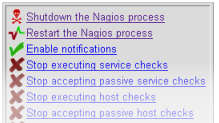
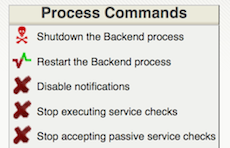
reviewed startstop and verifyconfig page

diff --git a/documentation/usersguide/startstop.md b/documentation/usersguide/startstop.md
@@ -3,62 +3,56 @@ layout: doctoc
 title: Starting and Stopping Naemon
 ---
 
-{% include review_required.md %}
-
 <span class="glyphicon glyphicon-arrow-right"></span> See Also: <a href="verifyconfig.html">Verifying Your Configuration</a>
+<br><br>
 
-There's more than one way to start, stop, and restart Naemon.  Here are some of the more common ones...
+There's more than one way to start, stop, and restart Naemon.
+Here are some of the more common ones...
 
-<span class="glyphicon glyphicon-thumbs-up"></span> Tip: Always make sure you <a href="verifyconfig.html">verify your configuration</a> before you (re)start Naemon.
+
+<div class="alert alert-info" style="margin: 10px;"><i class="glyphicon glyphicon-thumbs-up"></i>
+Tip: Always make sure you <a href="verifyconfig.html">verify your configuration</a> before you (re)start Naemon.
+</div>
+
+
 
 ### Starting Naemon
 
-<ol>
-<li><b>Init Script:</b>  The easiest way to start the Naemon daemon is by using the init script like so:
-<pre>
-/etc/rc.d/init.d/nagios start
-</pre>
-</li>
-<li><b>Manually:</b> You can start the Naemon daemon manually with the <b>-d</b> command line option like so:
-<pre>
-/usr/local/nagios/bin/nagios -d /usr/local/nagios/etc/nagios.cfg
-</pre>
-</li>
-</ol>
+1. <b>Init Script:</b>
+   The easiest way to start the Naemon daemon is by using the init script like so:
+   <pre>/etc/init.d/naemon start</pre>
+2. <b>Manually:</b>
+   You can start the Naemon daemon manually with the <b>-d</b> command line option like so:
+   <pre>/usr/bin/naemon -d /etc/naemon/naemon.cfg</pre>
+
+
 
 ### Restarting Naemon
 
 Restarting/reloading is nececessary when you modify your configuration files and want those changes to take effect.
 
-<ol>
-<li><b>Init Script:</b>  The easiest way to restart the Naemon daemon is by using the init script like so:
-<pre>
-/etc/rc.d/init.d/nagios reload
-</pre>
-</li>
-<li><b>Web Interface:</b> You can restart the Naemon through the web interface by clicking the "Process Info" navigation link and selecting "Restart the Naemon process":<br><br>
-<img src="/images/stoprestart.png" border="0" alt="Restart the Naemon process"><br><br>
-</li>
-<li><b>Manually:</b> You can restart the Naemon process by sending it a SIGHUP signal like so:
-<pre>
-kill -HUP &lt;nagios_pid&gt;
-</pre>
-</ol>
+1. <b>Init Script:</b>
+   The easiest way to restart the Naemon daemon is by using the init script like so:
+   <pre>/etc/init.d/naemon reload</pre>
+2. <b>Web Interface:</b>
+   You can restart the Naemon through the web interface by clicking the
+   "Process Info" navigation link and selecting "Restart the Backend process":<br><br>
+   <img src="/images/stoprestart.png" border="0" alt="Restart the Backend process"><br><br>
+3. <b>Manually:</b>
+   You can restart the Naemon process by sending it a SIGHUP signal like so:
+   <pre>kill -HUP &lt;naemon_pid&gt;</pre>
+
+
 
 ### Stopping Naemon
 
-<ol>
-<li><b>Init Script:</b>  The easiest way to stop the Naemon daemon is by using the init script like so:
-<pre>
-/etc/rc.d/init.d/nagios stop
-</pre>
-</li>
-<li><b>Web Interface:</b> You can stop the Naemon through the web interface by clicking the "Process Info" navigation link and selecting "Shutdown the Naemon process":<br><br>
-<img src="/images/stoprestart.png" border="0" alt="Shutdown the Naemon process"><br><br>
-</li>
-<li><b>Manually:</b> You can stop the Naemon process by sending it a SIGTERM signal like so:
-<pre>
-kill &lt;nagios_pid&gt;
-</pre>
-</li>
-</ol>
+1. <b>Init Script:</b>
+   The easiest way to stop the Naemon daemon is by using the init script like so:
+   <pre>/etc/init.d/naemon stop</pre>
+2. <b>Web Interface:</b>
+   You can stop the Naemon through the web interface by clicking the "Process Info" navigation
+   link and selecting "Shutdown the Backend process":<br><br>
+   <img src="/images/stoprestart.png" border="0" alt="Shutdown the Backend process"><br><br>
+3. <b>Manually:</b>
+   You can stop the Naemon process by sending it a SIGTERM signal like so:
+   <pre>kill &lt;naemon_pid&gt;</pre>

diff --git a/documentation/usersguide/verifyconfig.md b/documentation/usersguide/verifyconfig.md
@@ -1,22 +1,36 @@
 ---
-layout: doctoc
+layout: doc
 title: Verifying Your Naemon Configuration
 ---
 
-{% include review_required.md %}
-
 <span class="glyphicon glyphicon-arrow-right"></span> See Also: <a href="config.html">Configuration Overview</a>, <a href="startstop.html">Starting and Stopping Naemon</a>
+
 
 ### Verifying Your Configuration
 
-Every time you modify your <a href="config.html">configuration files</a>, you should run a sanity check on them.  It is important to do this before you (re)start Naemon, as Naemon will shut down if your configuration contains errors.
+Every time you modify your <a href="config.html">configuration files</a>, you
+should run a sanity check on them. It is important to do this before you
+(re)start Naemon, as Naemon will shut down if your configuration contains
+errors.
 
 In order to verify your configuration, run Naemon with the <b>-v</b> command line option like so:
 
 <pre>
-/usr/local/nagios/bin/nagios -v /usr/local/nagios/etc/nagios.cfg
+/usr/bin/naemon -v /etc/naemon/naemon.cfg
 </pre>
 
-If you've forgotten to enter some critical data or misconfigured things, Naemon will spit out a warning or error message that should point you to the location of the problem.  Error messages generally print out the line in the configuration file that seems to be the source of the problem.  On errors, Naemon will often exit the pre-flight check and return to the command prompt after printing only the first error that it has encountered.  This is done so that one error does not cascade into multiple errors as the remainder of the configuration data is verified.  If you get any error messages you'll need to go and edit your configuration files to remedy the problem.  Warning messages can <i>generally</i> be safely ignored, since they are only recommendations and not requirements.
+If you've forgotten to enter some critical data or misconfigured things, Naemon
+will spit out a warning or error message that should point you to the location
+of the problem. Error messages generally print out the line in the
+configuration file that seems to be the source of the problem. On errors,
+Naemon will often exit the pre-flight check and return to the command prompt
+after printing only the first error that it has encountered. This is done so
+that one error does not cascade into multiple errors as the remainder of the
+configuration data is verified. If you get any error messages you'll need to go
+and edit your configuration files to remedy the problem. Warning messages can
+<i>generally</i> be safely ignored, since they are only recommendations and not
+requirements.
 
-Once you've verified your configuration files and fixed any errors you can go ahead and <a href="startstop.html">(re)start Naemon</a>.
+
+Once you've verified your configuration files and fixed any errors you can go
+ahead and <a href="startstop.html">(re)start Naemon</a>.

diff --git a/documentation/faq/usersguide-guidelines.md b/documentation/faq/usersguide-guidelines.md
@@ -2,7 +2,8 @@
 layout: affix
 title: Usersguide guidelines
 ---
-This document will help the community to mainstream Naemon usersguide to make it easy to follow with a common look and feel for the best user experiance possible.
+This document will help the community to mainstream Naemon usersguide to make it easy to follow with
+a common look and feel for the best user experiance possible.
 
 ### Naming
 
@@ -46,7 +47,7 @@ Alerts are used in the text to highlight something specific. It could be success
 <div class="alert alert-info" style="margin: 10px;"><i class="glyphicon glyphicon-info-sign"></i> Read below for more information</div>
 ```
 
-#### Warning 
+#### Warning
 
 <div class="alert alert-warning" style="margin: 10px;"><i class="glyphicon glyphicon-exclamation-sign"></i> It's not possible to use Markdown inside a html block. Don't forget that &lt;table&gt;...&lt;/table&gt; are inside a html block as well</div>
 
